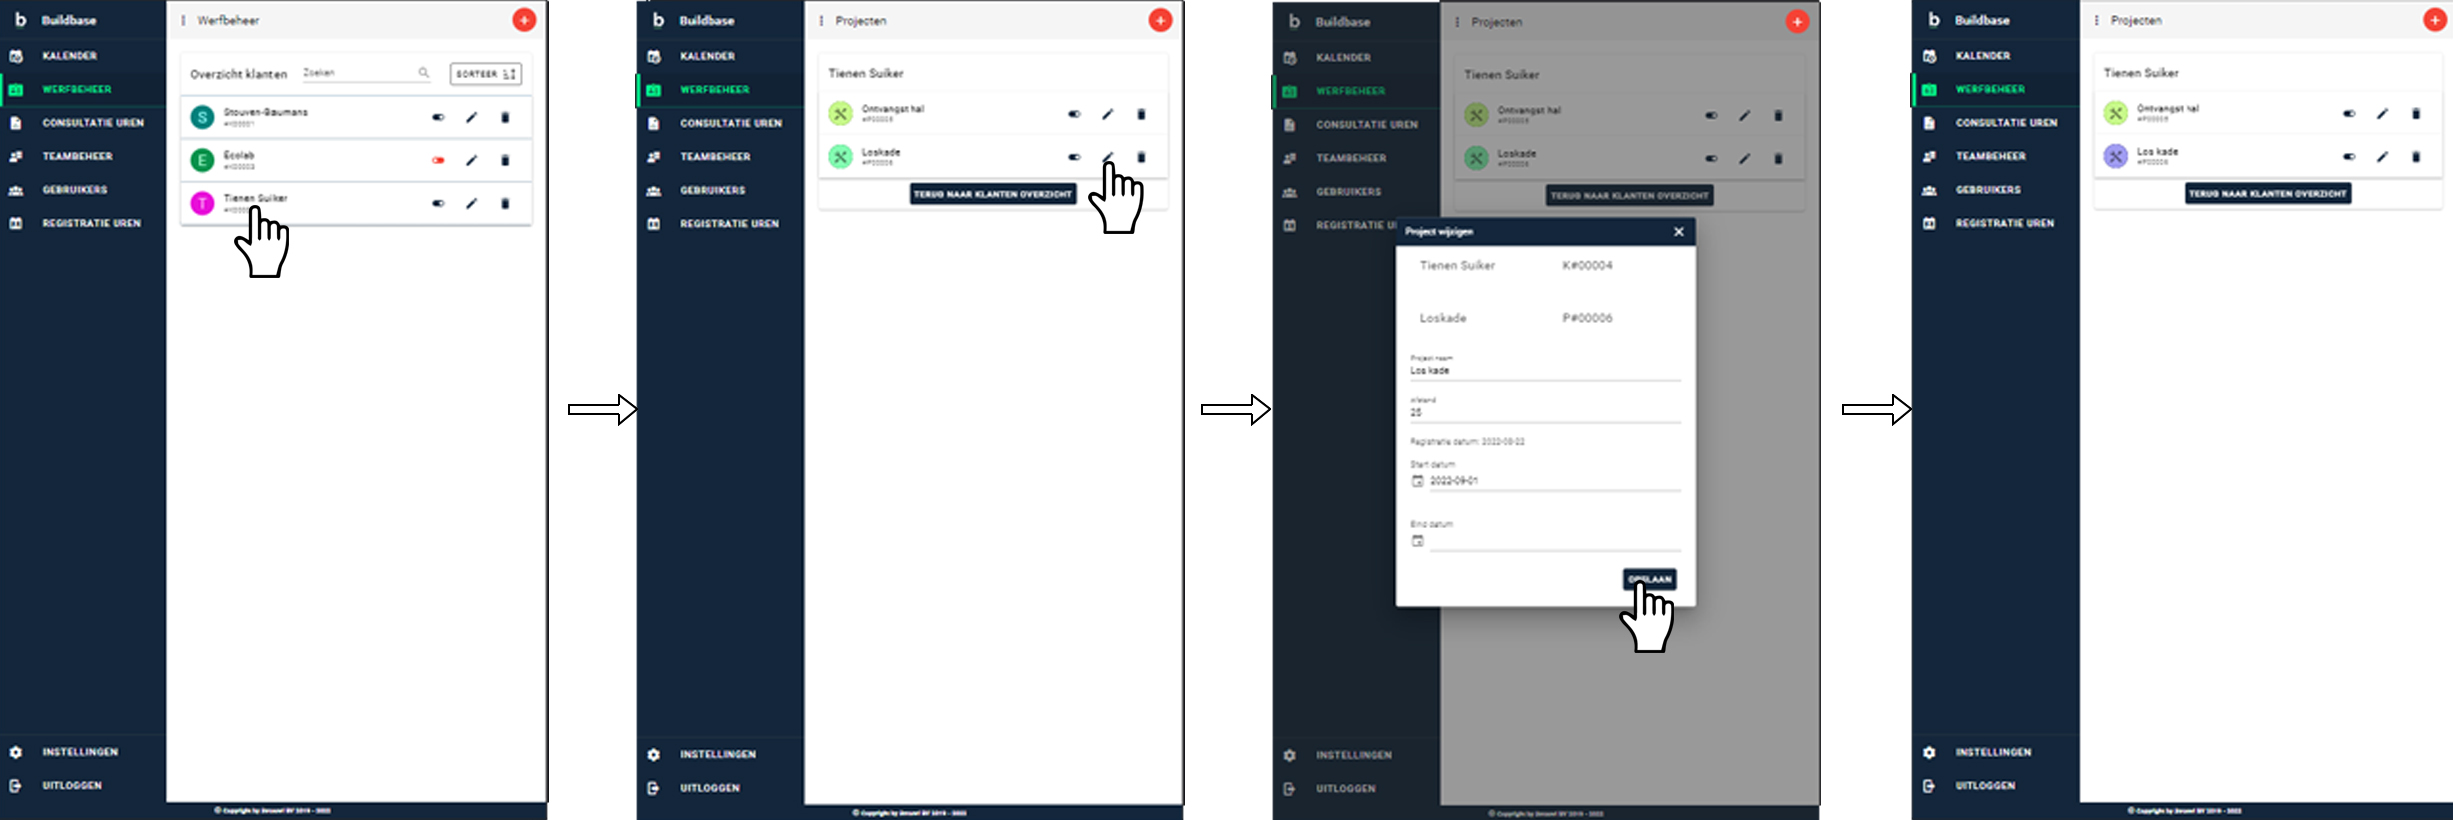
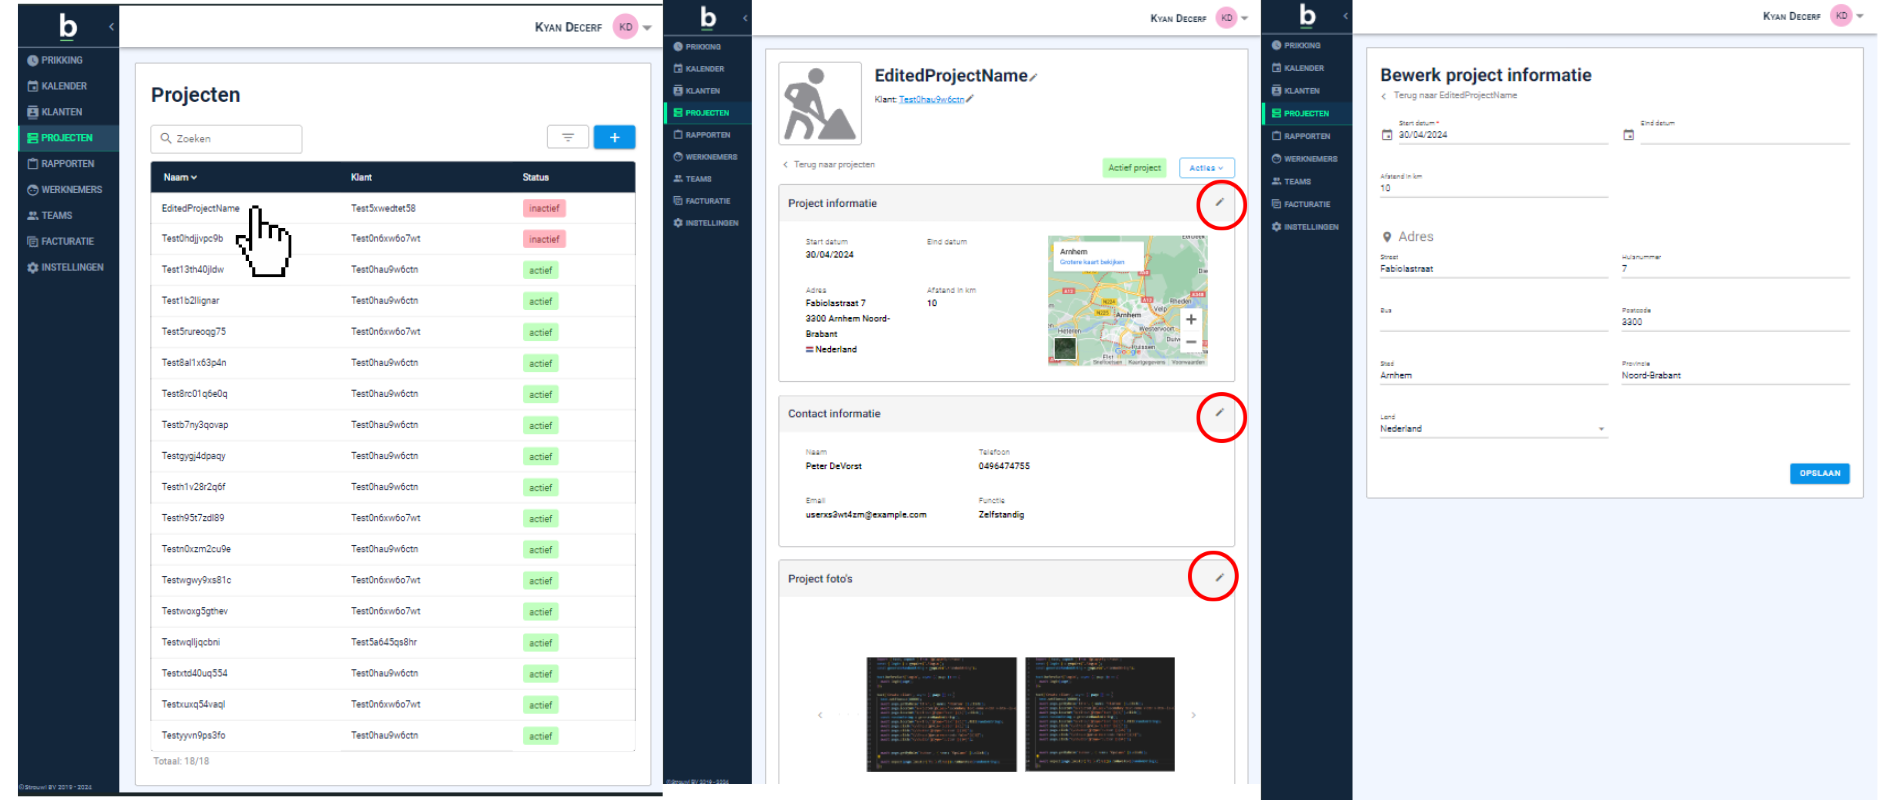
Client.md updated

diff --git a/Writerside/topics/Client.md b/Writerside/topics/Client.md
@@ -4,25 +4,22 @@
 
 ### Clients and projects overview
 
-After selecting the option "werfbeheer" in the admin console, you will see a list of clients and their projects. On this
-page you will be able to [create a client](#create-a-client.) or set existing clients and projects to active/inactive.
+After selecting the option "klanten" in the admin console, you will see a list of clients and their projects. On this
+page you will be able to create a client or set existing clients and projects to active/inactive.
 
 ![Set-project-inactive](MSS_worksite_management_non-active.jpg)
 
 ### Create a client
 
-![Add-client-and-project](MSS_add_worksite.jpg)
+![Add-client-and-project](MSS_add_client.jpg)
 
 The admin will be able to create new clients.  
-He will be able to provide a client name. The system will generate a client specific code which will also be visible in
-the overview.  
+He will be able to provide a client name, the starting date and the ending date.   
 When entering a new client's name, the system will also check the existing list of clients to find a match, to prevent
-double entries. When creating a new client, the admin also has to enter a [new project](#create-a-project.) for this
-client.
-After entering a new project the admin also has to enter the starting date for the client. The admin will then have the
-option of entering an end date. The end date is not mandatory but when given it can not be
-before the starting date. The dates refer to both the client as the project. The dates can be modified in the
-modify client or project page.
+double entries. 
+
+At the overview you can see how many projects are assigned to this client as well as how many of them are active. 
+You can also see the status of the client on the right side of the table.
 
 
 
@@ -30,15 +27,14 @@ modify client or project page.
 
 ![Add-project](MSS_add_project.jpg)
 
-The admin will be able to create projects for existing or new clients.  
+The admin will be able to create projects for existing clients.  
 He will be able to provide a project name and the distance of the project. In addition, the admin
 has to enter a start date. The end date is not necessary but if used it can not be before
-th start date. The system will generate a project specific
-code which will also be visible.
+th start date. 
 
 ### Modify client or project
 
-To modify a client or a project you can select it in the overview.
+To modify a client or a project you can click on the client and click on a pencil for the information you want to change.
 
 ![Change-client](MSS_modify_client.jpg)
 
@@ -58,6 +54,9 @@ appear in the list.
 The admin will be able to delete existing clients and projects. Only clients and or projects with no logged working hours
 can be deleted. If there are logged working hours the client and or project will be archived for future purposes.
 
+In the following picture you can see the process of deleting a process, this is the same for deleting a client but that is done in the "klanten" tab
+![Delete project](MSS_Delete_Project.jpg)
+
 #### Deleting client
 
 When deleting a client a popup will ask you to confirm that you want to delete the client. After confirming this
@@ -70,7 +69,4 @@ When deleting a project a popup will ask you to confirm that you want to delete 
 the project will no longer be visible in the list. If the project had no logged working hours it is completely removed. In
 case there are logged working hours the project will be kept in the archive.
 
-### Merge existing projects (Optional: not in project scope)
 
-In the event of a double entry for the same project, the admin will be able to merge these entries to make sure all the
-worked hours for these entries are properly linked to one project.
